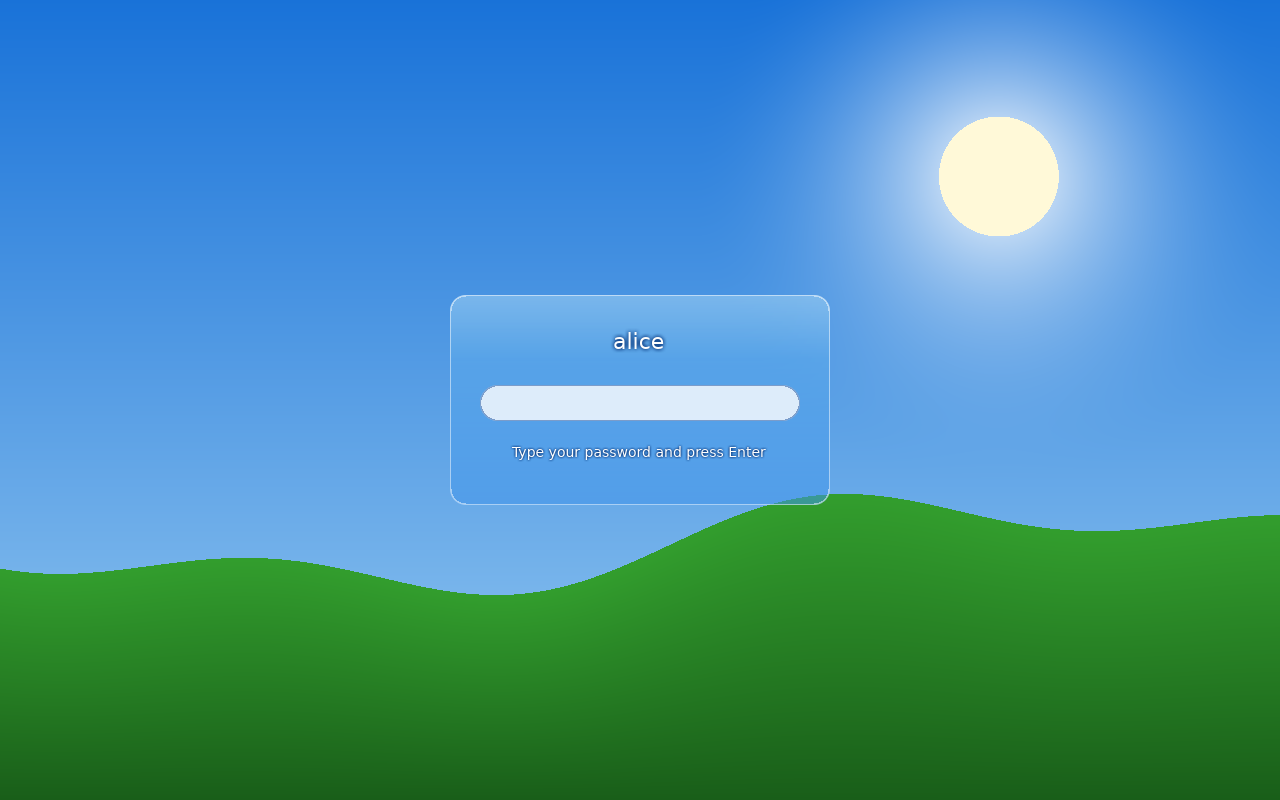
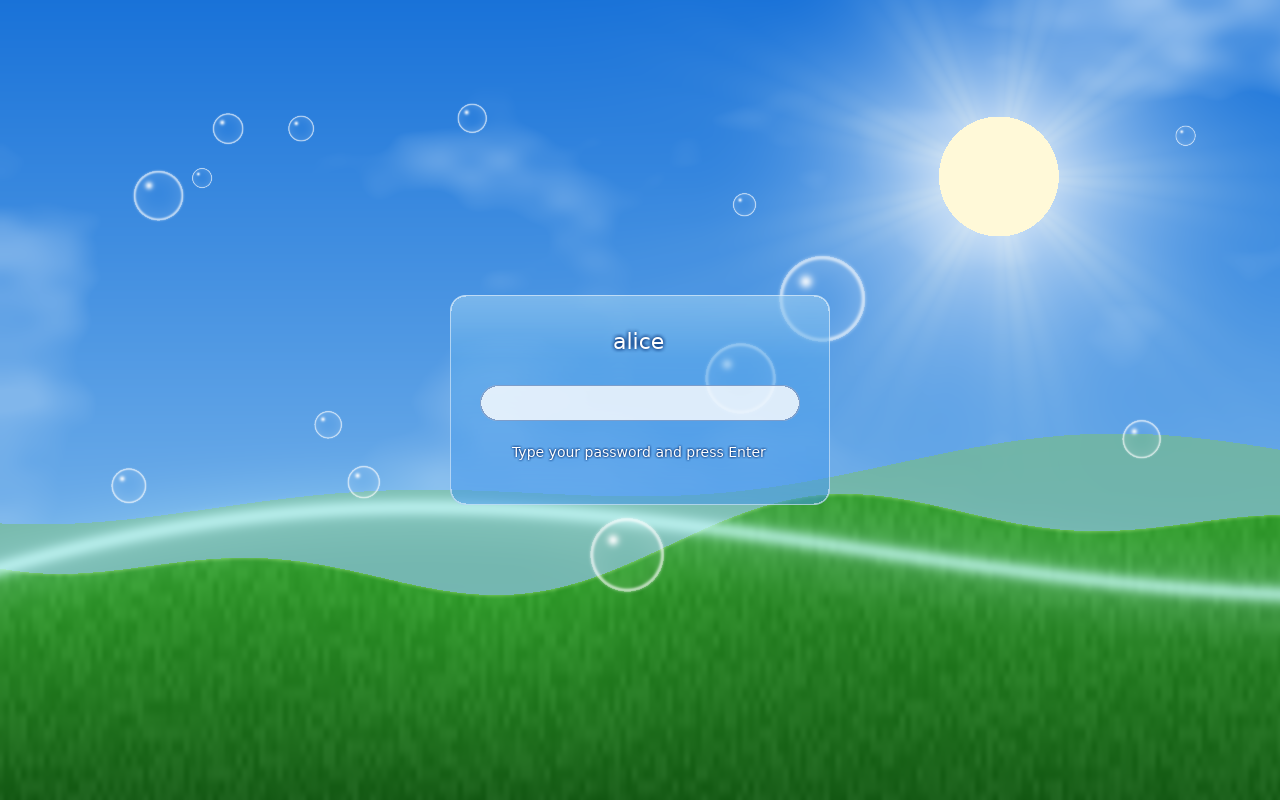
Look: window drop shadows, glass reflections and edge glow, richer built-in wallpaper; fresh screenshots
Claude-Session: https://claude.ai/code/session_01AksNTTEEpWACMAbBincPJS

diff --git a/src/wallpaper.rs b/src/wallpaper.rs
@@ -2,38 +2,118 @@
 
 #![allow(non_snake_case)]
 
-/// A sky with sun and hills (and optionally hard stripes, so that blur is easy to see). RGBA8, top row first.
+fn hash(x: i32, y: i32, seed: i32) -> f32 {
+    let mut h = (x as u32).wrapping_mul(374761393) ^ (y as u32).wrapping_mul(668265263) ^ (seed as u32).wrapping_mul(2147483647);
+    h = (h ^ (h >> 13)).wrapping_mul(1274126177);
+    ((h ^ (h >> 16)) & 0xffff) as f32 / 65535.0
+}
+
+/// Smooth value noise, 0..1.
+fn noise(x: f32, y: f32, seed: i32) -> f32 {
+    let (xi, yi) = (x.floor(), y.floor());
+    let (fx, fy) = (x - xi, y - yi);
+    let (sx, sy) = (fx * fx * (3.0 - 2.0 * fx), fy * fy * (3.0 - 2.0 * fy));
+    let (xi, yi) = (xi as i32, yi as i32);
+    let a = hash(xi, yi, seed);
+    let b = hash(xi + 1, yi, seed);
+    let c = hash(xi, yi + 1, seed);
+    let d = hash(xi + 1, yi + 1, seed);
+    (a + (b - a) * sx) + ((c + (d - c) * sx) - (a + (b - a) * sx)) * sy
+}
+
+fn fbm(x: f32, y: f32, seed: i32) -> f32 {
+    let (mut sum, mut amp, mut f) = (0.0, 0.5, 1.0);
+    for k in 0..4 {
+        sum += amp * noise(x * f, y * f, seed + k);
+        amp *= 0.5;
+        f *= 2.0;
+    }
+    sum
+}
+
+fn over(c: &mut [f32; 3], color: [f32; 3], a: f32) {
+    let a = a.clamp(0.0, 1.0);
+    for k in 0..3 {
+        c[k] += (color[k] - c[k]) * a;
+    }
+}
+
+/// The built-in wallpaper: a bright Frutiger Aero day: gradient sky with soft clouds and a sun
+/// with rays, hazy and green hills, a glowing swoosh of light across them and a few soap
+/// bubbles. (With `stripes`, hard white blocks that make the blur easy to see.) RGBA8, top row
+/// first.
 pub fn procedural(w: i32, h: i32, stripes: bool) -> Vec<u8> {
-    let (W, H) = (w, h);
-    let mut px = vec![0u8; (W * H * 4) as usize];
-    for y in 0..H {
-        for x in 0..W {
-            let fx = x as f32 / W as f32;
-            let fy = y as f32 / H as f32;
+    let (wf, hf) = (w as f32, h as f32);
+    let aspect = wf / hf;
+    // soap bubbles: position (0..1), radius (in heights)
+    let bubbles: Vec<(f32, f32, f32)> = (0..14)
+        .map(|i| (0.05 + 0.9 * hash(i, 1, 7), 0.10 + 0.62 * hash(i, 2, 7), 0.012 + 0.05 * hash(i, 3, 7).powi(2)))
+        .collect();
+    let mut px = vec![0u8; (w * h * 4) as usize];
+    for y in 0..h {
+        for x in 0..w {
+            let fx = x as f32 / wf;
+            let fy = y as f32 / hf;
             // sky: deep blue at the top to pale aqua at the horizon
             let mut c = [0.10 + 0.50 * fy, 0.45 + 0.35 * fy, 0.85 + 0.10 * fy];
-            // sun with glow
-            let aspect = W as f32 / H as f32;
-            let (dx, dy) = ((fx - 0.78) * aspect, fy - 0.22); // round in pixels, sized by the height
+            // sun with glow and rays
+            let (dx, dy) = ((fx - 0.78) * aspect, fy - 0.22);
             let d = (dx * dx + dy * dy).sqrt();
             let glow = (1.0 - d * 2.6).clamp(0.0, 1.0);
             for k in 0..3 {
-                c[k] = c[k] + (1.0 - c[k]) * glow * glow;
+                c[k] += (1.0 - c[k]) * glow * glow;
             }
+            let angle = dy.atan2(dx);
+            let rays = (0.5 + 0.5 * (angle * 9.0 + 1.3).sin()) * (0.6 + 0.4 * (angle * 23.0).sin().abs());
+            over(&mut c, [1.0, 1.0, 0.92], rays * (1.0 - (d * 1.6).clamp(0.0, 1.0)).powi(2) * 0.22);
+            // clouds: soft, drifting, brighter towards the sun
+            let cloud = ((fbm(fx * 3.2 * aspect, fy * 5.0, 3) - 0.50) * 4.2).clamp(0.0, 1.0) * (1.0 - fy * 1.1).clamp(0.0, 1.0);
+            over(&mut c, [0.97, 0.99, 1.0], cloud * 0.55);
             if d < 0.075 {
                 c = [1.0, 0.98, 0.85];
             }
-            // grass hills
+            // hazy far hills, then the near grass hills
+            let far = 0.60 + 0.04 * (fx * 4.0 + 1.0).sin() + 0.02 * (fx * 11.0).cos();
+            if fy > far {
+                let t = ((fy - far) / (1.0 - far)).clamp(0.0, 1.0);
+                over(&mut c, [0.45, 0.72, 0.62], 0.85 - 0.3 * t);
+            }
             let hill = 0.68 + 0.05 * (fx * 6.0).sin() + 0.03 * (fx * 15.0).cos();
             if fy > hill {
                 let t = (fy - hill) / (1.0 - hill);
                 c = [0.20 - 0.1 * t, 0.62 - 0.25 * t, 0.18 - 0.08 * t];
+                // a lit rim along the top of the hill and some grass texture
+                let rim = (1.0 - ((fy - hill) * hf / 5.0).clamp(0.0, 1.0)).powi(2);
+                over(&mut c, [0.75, 0.95, 0.55], rim * 0.35);
+                let grass = noise(fx * 220.0, fy * 60.0, 11) - 0.5;
+                for v in &mut c {
+                    *v += grass * 0.06;
+                }
+            }
+            // the swoosh: a glowing ribbon of light curving across the lower part
+            let ribbon_y = 0.80 - 0.16 * (fx * 3.1 + 0.6).sin() * (1.0 - 0.5 * fx) - 0.10 * fx;
+            let across = (fy - ribbon_y) * hf;
+            let core = (-(across / (hf * 0.012)).powi(2)).exp();
+            let halo = (-(across / (hf * 0.05)).powi(2)).exp();
+            over(&mut c, [0.80, 1.0, 1.0], core * 0.55 + halo * 0.16);
+            // bubbles
+            for &(bx, by, br) in &bubbles {
+                let (ddx, ddy) = ((fx - bx) * aspect, fy - by);
+                let dist = (ddx * ddx + ddy * ddy).sqrt();
+                if dist < br * 1.15 {
+                    let r = dist / br; // 0 centre .. 1 edge
+                    let rim = (-((r - 0.96) / 0.06).powi(2)).exp();
+                    let body = 0.10 * r * r;
+                    let (hx, hy) = (ddx / br + 0.38, ddy / br + 0.40);
+                    let spot = (-(hx * hx + hy * hy) / 0.025).exp();
+                    over(&mut c, [1.0, 1.0, 1.0], if r <= 1.0 { body + rim * 0.55 + spot * 0.8 } else { rim * 0.4 });
+                }
             }
             // hard white stripes and dots (to show the blur)
             if stripes && (x / 24 + y / 24) % 2 == 0 && fy > 0.30 && fy < 0.62 && fx < 0.55 {
                 c = [1.0, 1.0, 1.0];
             }
-            let i = ((y * W + x) * 4) as usize;
+            let i = ((y * w + x) * 4) as usize;
             px[i] = (c[0].clamp(0.0, 1.0) * 255.0) as u8;
             px[i + 1] = (c[1].clamp(0.0, 1.0) * 255.0) as u8;
             px[i + 2] = (c[2].clamp(0.0, 1.0) * 255.0) as u8;
@@ -42,7 +122,6 @@ pub fn procedural(w: i32, h: i32, stripes: bool) -> Vec<u8> {
     }
     px
 }
-
 
 /// A picture loaded from a file: RGBA8, top row first.
 #[derive(Clone, Debug, PartialEq)]

diff --git a/src/glass/shaders.rs b/src/glass/shaders.rs
@@ -88,7 +88,7 @@ void main() {
     vec3 base = texture2D(tex, v_coords).rgb;
     // lift saturation a little, like a sheet of tinted glass
     float l = dot(base, vec3(0.299, 0.587, 0.114));
-    base = mix(vec3(l), base, 1.25);
+    base = mix(vec3(l), base, 1.35) + vec3(0.03);
 
     bool in_client = px.x > border && px.x < size.x - border && px.y > border + titlebar && px.y < size.y - border;
     vec4 tint = in_client ? tint_client : tint_frame;
@@ -124,6 +124,20 @@ void main() {
                 rgb = mix(rgb, body, orb_cover);
             }
         }
+    }
+    // diagonal reflections across the whole pane: two soft streaks, lit from the upper left
+    {
+        float u = (px.x + px.y * 0.55) / (size.x + size.y * 0.55);
+        float streak = smoothstep(0.10, 0.27, u) * (1.0 - smoothstep(0.27, 0.40, u))      // broad
+                     + 0.55 * smoothstep(0.47, 0.52, u) * (1.0 - smoothstep(0.52, 0.60, u)); // narrow
+        float fade = 1.0 - smoothstep(0.0, 1.0, px.y / size.y) * 0.55;                     // weaker towards the bottom
+        rgb = mix(rgb, vec3(1.0), clamp(streak * fade, 0.0, 1.0) * gloss * (in_client ? 0.10 : 0.16) * (0.5 + 0.5 * focus));
+    }
+    // a soft inner glow along the edge, as if the glass were lit from within
+    {
+        float inside = -d;                                                                  // px from the edge
+        float glow = (1.0 - smoothstep(0.0, border * 2.2 + 3.0, inside)) * smoothstep(0.0, 2.0, inside);
+        rgb = mix(rgb, vec3(0.85, 0.95, 1.0), glow * 0.34 * (0.45 + 0.55 * focus));
     }
     // light line just inside the border and a dark hairline at the very edge
     float inner = smoothstep(1.2, 0.0, abs(d + border - 0.5));
@@ -163,5 +177,37 @@ void main() {
 #endif
     float d = rounded_box(v_coords * size - size * 0.5, size * 0.5, radius);
     gl_FragColor = color * clamp(0.5 - d, 0.0, 1.0) * alpha;
+}
+"#;
+
+/// A soft drop shadow around a rounded window, drawn under the glass. Nothing inside the
+/// window itself (the glass is see-through, a shadow there would show).
+pub const SHADOW: &str = r#"
+#version 100
+//_DEFINES_
+precision highp float;
+uniform sampler2D tex;
+uniform float alpha;
+varying vec2 v_coords;
+uniform vec2 size;      // the area drawn: the window plus `spread` all round
+uniform float spread;   // px between the window and the edge of the area
+uniform float radius;   // the window's corner radius
+uniform float shift_y;  // how far the shadow falls below the window
+uniform float soft;     // how far the shadow fades out
+uniform float strength; // 0..1
+float rounded_box(vec2 p, vec2 half_size, float r) {
+    vec2 q = abs(p) - half_size + vec2(r);
+    return length(max(q, 0.0)) + min(max(q.x, q.y), 0.0) - r;
+}
+void main() {
+    vec2 px = v_coords * size - size * 0.5;
+    vec2 win_half = size * 0.5 - vec2(spread);
+    float d_window = rounded_box(px, win_half, radius);
+    float d_shadow = rounded_box(px - vec2(0.0, shift_y), win_half, radius);
+    float s = (1.0 - smoothstep(-soft * 0.35, soft, d_shadow));
+    s = s * s;                                              // a longer, softer tail
+    float outside = smoothstep(-0.5, 0.5, d_window);        // 0 inside the window
+    float a = s * outside * strength;
+    gl_FragColor = vec4(vec3(0.02, 0.06, 0.14) * a, a) * alpha;
 }
 "#;

diff --git a/src/glass/mod.rs b/src/glass/mod.rs
@@ -74,6 +74,7 @@ impl Default for GlassStyle {
 }
 
 pub struct Glass {
+    shadow: GlesTexProgram,
     down: GlesTexProgram,
     up: GlesTexProgram,
     panel: GlesTexProgram,
@@ -115,7 +116,56 @@ impl Glass {
             up: renderer.compile_custom_texture_shader(shaders::BLUR_UP, &hp)?,
             panel: renderer.compile_custom_texture_shader(shaders::GLASS, &panel_uniforms)?,
             clip: renderer.compile_custom_texture_shader(shaders::ROUND_CLIP, &clip_uniforms)?,
+            shadow: renderer.compile_custom_texture_shader(
+                shaders::SHADOW,
+                &[
+                    UniformName::new("size", UniformType::_2f),
+                    UniformName::new("spread", UniformType::_1f),
+                    UniformName::new("radius", UniformType::_1f),
+                    UniformName::new("shift_y", UniformType::_1f),
+                    UniformName::new("soft", UniformType::_1f),
+                    UniformName::new("strength", UniformType::_1f),
+                ],
+            )?,
         })
+    }
+
+    /// The drop shadow of a window whose outer rectangle is `window` (scene pixels). `blurred` is
+    /// any texture (the shader only needs something to draw on); `scale` is pixels per logical
+    /// pixel and `focus` makes the shadow of the active window deeper.
+    pub fn draw_shadow(
+        &self,
+        frame: &mut GlesFrame<'_, '_>,
+        dummy: &GlesTexture,
+        window: Rectangle<i32, Physical>,
+        style: &GlassStyle,
+        scale: f32,
+        alpha: f32,
+    ) -> Result<(), GlesError> {
+        let spread = (26.0 * scale).round() as i32;
+        let area = Rectangle::<i32, Physical>::new(
+            (window.loc.x - spread, window.loc.y - spread).into(),
+            (window.size.w + 2 * spread, window.size.h + 2 * spread).into(),
+        );
+        let full = Rectangle::<f64, BufferCoord>::from_size((dummy.size().w as f64, dummy.size().h as f64).into());
+        frame.render_texture_from_to(
+            dummy,
+            full,
+            area,
+            &[Rectangle::from_size(area.size)],
+            &[],
+            Transform::Normal,
+            alpha,
+            Some(&self.shadow),
+            &[
+                Uniform::new("size", (area.size.w as f32, area.size.h as f32)),
+                Uniform::new("spread", spread as f32),
+                Uniform::new("radius", style.radius),
+                Uniform::new("shift_y", 7.0 * scale),
+                Uniform::new("soft", 20.0 * scale),
+                Uniform::new("strength", 0.22 + 0.22 * style.focus),
+            ],
+        )
     }
 
     /// One pass of the blur: `src` (the part `src_rect`, in its pixels) into a new texture of

diff --git a/tests/e2e.rs b/tests/e2e.rs
@@ -223,7 +223,13 @@ fn a_client_window_gets_a_glass_frame_and_can_be_closed_with_its_orb() {
     assert!(top[2] > top[0] + 20, "the title bar is blue glass: {top:?}");
     let outer = fawc::layout::outer_rect(g, &hn.state.style);
     let corner = pixel(&bytes, w, outer.loc.x, outer.loc.y);
-    assert!((corner[0] - outside[0]).abs() < 6, "the rounded corner leaves the wallpaper alone: {corner:?}");
+    // the rounded corner shows the wallpaper behind, a little darkened by the drop shadow, but
+    // none of the glass (which would be lighter and bluer)
+    let wc = ((outer.loc.y * w + outer.loc.x) * 4) as usize;
+    for k in 0..3 {
+        let (cv, wv) = (corner[k], wp[wc + k] as i32);
+        assert!(cv <= wv + 6 && cv >= wv * 55 / 100, "the rounded corner leaves the wallpaper (and its shadow): {corner:?} vs {:?}", &wp[wc..wc + 3]);
+    }
     let orb = button_center(outer, &hn.state.style, Button::Close);
     let o = pixel(&bytes, w, orb.x as i32, orb.y as i32 + 3);
     assert!(o[0] > o[2] + 30, "the close orb is red: {o:?}");

diff --git a/src/render.rs b/src/render.rs
@@ -391,6 +391,7 @@ impl Fawc {
 
                 let mut target = renderer.bind(scene)?;
                 let mut frame = renderer.render(&mut target, size, Transform::Normal)?;
+                glass.draw_shadow(&mut frame, &blurred, outer_p, &style, view.scale as f32, alpha)?;
                 glass.draw_panel_part(&mut frame, &blurred, src, outer_p, &style, alpha)?;
                 if let Some((tex, dest)) = &title_draw {
                     let src_full = Rectangle::<f64, BufferCoord>::from_size((tex.size().w as f64, tex.size().h as f64).into());

diff --git a/docs/ROADMAP.md b/docs/ROADMAP.md
@@ -10,6 +10,7 @@ possible; hardware and VM runs are noted as such.
       glass renderer, keyboard and pointer, move/resize, close/maximize/minimize, focus
 - [x] M2a title text with glow and orb buttons drawn by the compositor
 - [x] M2b one config file, applied live (accent, transparency, blur, gloss, terminal, keyboard, autostart)
+- [x] look: window drop shadows, diagonal glass reflections and an inner edge glow, a richer built-in wallpaper (sun rays, clouds, hazy hills, a swoosh of light, soap bubbles)
 - [x] wallpaper from a PNG file (`[wallpaper]` in the file, a Wallpaper page in settings)
 - [ ] M2c theme files (orb colours, fonts, shapes), output settings page
 - [x] cursor themes (XCursor, named and client-drawn cursors, resize arrows)
